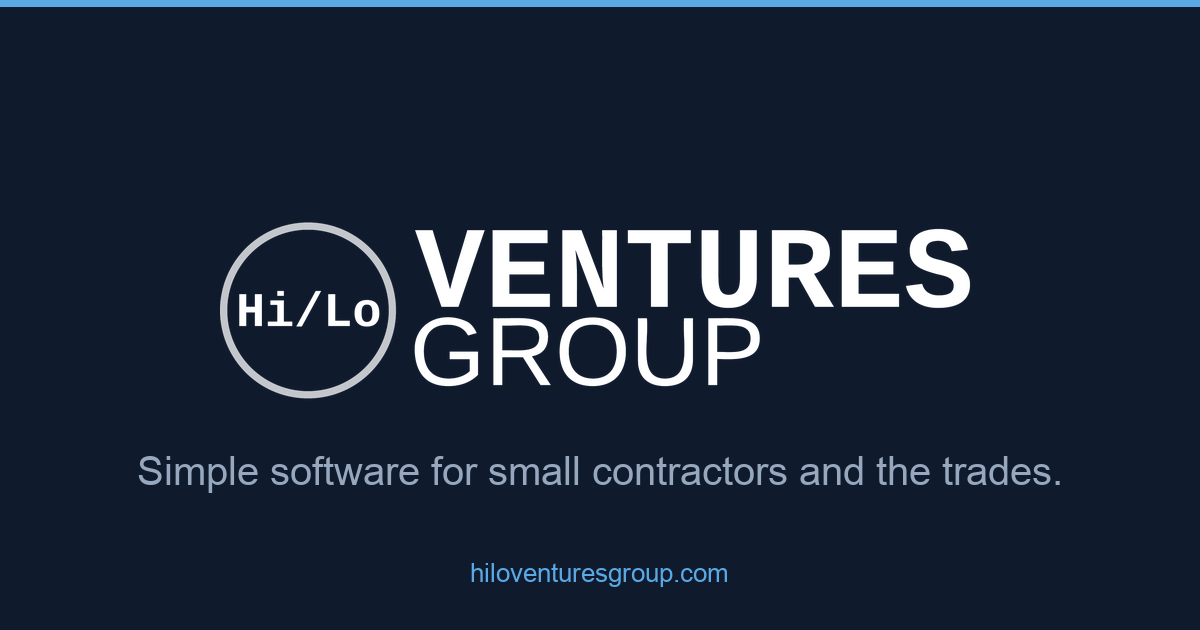
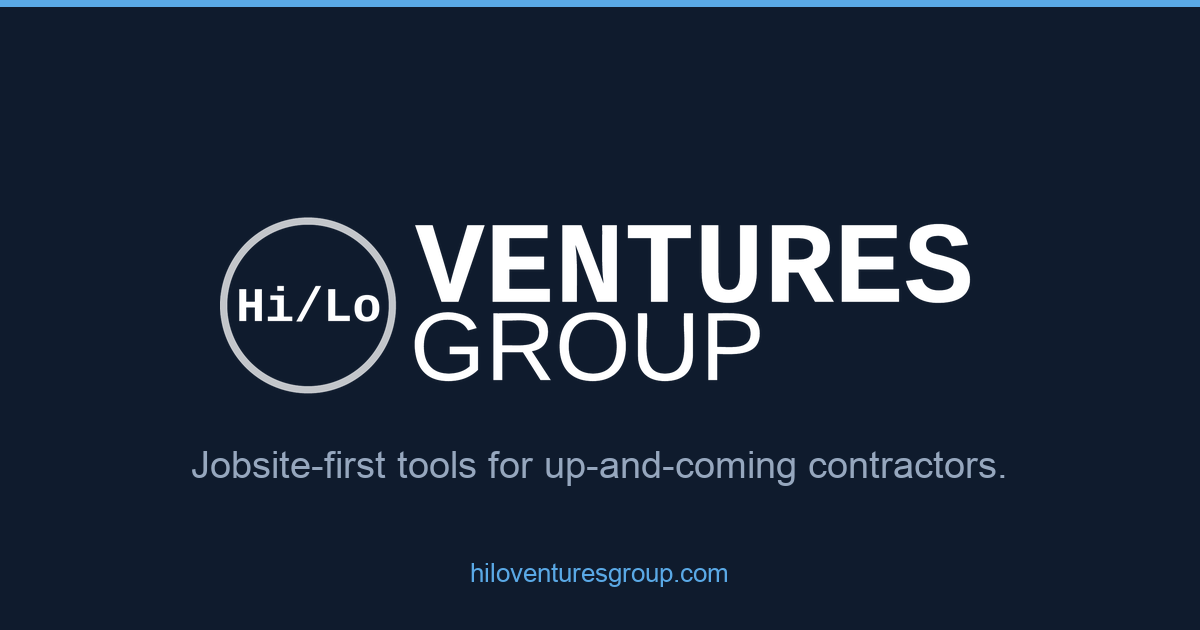
Align metadata to jobsite-first positioning
Homepage and About copy already carried the message; this syncs the
derived layers to match:
- Schema WebSite.description (all 7 pages), homepage + About meta descriptions
- Regenerate share card tagline: "Jobsite-first tools for up-and-coming contractors"
- Update llms.txt summary and body to the jobsite-first / communication-gap story

diff --git a/index.html b/index.html
@@ -15,7 +15,7 @@
 			let jqueryParams=[],jQuery=function(r){return jqueryParams=[...jqueryParams,r],jQuery},$=function(r){return jqueryParams=[...jqueryParams,r],$};window.jQuery=jQuery,window.$=jQuery;let customHeadScripts=!1;jQuery.fn=jQuery.prototype={},$.fn=jQuery.prototype={},jQuery.noConflict=function(r){if(window.jQuery)return jQuery=window.jQuery,$=window.jQuery,customHeadScripts=!0,jQuery.noConflict},jQuery.ready=function(r){jqueryParams=[...jqueryParams,r]},$.ready=function(r){jqueryParams=[...jqueryParams,r]},jQuery.load=function(r){jqueryParams=[...jqueryParams,r]},$.load=function(r){jqueryParams=[...jqueryParams,r]},jQuery.fn.ready=function(r){jqueryParams=[...jqueryParams,r]},$.fn.ready=function(r){jqueryParams=[...jqueryParams,r]};</script>
 	<!-- This site is optimized with the Yoast SEO plugin v24.6 - https://yoast.com/wordpress/plugins/seo/ -->
 	<title>Hi/Lo Ventures Group | Micro-SaaS Venture Studio for the Trades</title>
-	<meta name="description" content="Hi/Lo Ventures Group is a micro-SaaS venture studio that builds, launches, and invests in simple, AI-powered software for small contractors and the trades."/>
+	<meta name="description" content="Hi/Lo Ventures Group builds AI-powered, jobsite-first tools that help up-and-coming contractors communicate better, work smarter, and compete with established firms from day one."/>
 	<link rel="canonical" href="https://hiloventuresgroup.com/" />
 	<meta property="og:locale" content="en_US" />
 	<meta property="og:type" content="website" />
@@ -32,7 +32,7 @@
 	<meta name="twitter:image" content="https://hiloventuresgroup.com/wp-content/uploads/hilo-og-image.png" />
 	<meta name="twitter:image:alt" content="Hi/Lo Ventures Group" />
 	<meta name="twitter:site" content="@hiloventuresgroup" />
-	<script type="application/ld+json" class="yoast-schema-graph">{"@context":"https://schema.org","@graph":[{"@type":"WebPage","@id":"https://hiloventuresgroup.com/","url":"https://hiloventuresgroup.com/","name":"Hi/Lo Ventures Group | Building a community of trades people and the tools to support them","isPartOf":{"@id":"https://hiloventuresgroup.com/#website"},"about":{"@id":"https://hiloventuresgroup.com/#organization"},"datePublished":"2025-03-16T19:57:35+00:00","dateModified":"2025-03-16T18:09:42+00:00","description":"Hi/Lo Ventures Group is a Micro-SaaS Venture Studio that creates, launches, and invests in practical software solutions for tradespeople. We build simple, subscription-based tools designed to streamline operations, improve communication, and make everyday tasks easier in construction and home maintenance.","breadcrumb":{"@id":"https://hiloventuresgroup.com/#breadcrumb"},"inLanguage":"en-US","potentialAction":[{"@type":"ReadAction","target":["https://hiloventuresgroup.com/"]}]},{"@type":"BreadcrumbList","@id":"https://hiloventuresgroup.com/#breadcrumb","itemListElement":[{"@type":"ListItem","position":1,"name":"Home"}]},{"@type":"WebSite","@id":"https://hiloventuresgroup.com/#website","url":"https://hiloventuresgroup.com/","name":"Hi/Lo Ventures Group","description":"A micro-SaaS venture studio building simple software for the trades.","publisher":{"@id":"https://hiloventuresgroup.com/#organization"},"potentialAction":[{"@type":"SearchAction","target":{"@type":"EntryPoint","urlTemplate":"https://hiloventuresgroup.com/?s={search_term_string}"},"query-input":{"@type":"PropertyValueSpecification","valueRequired":true,"valueName":"search_term_string"}}],"inLanguage":"en-US"},{"@type":"Organization","@id":"https://hiloventuresgroup.com/#organization","name":"Hi/Lo Ventures Group","url":"https://hiloventuresgroup.com/","logo":{"@type":"ImageObject","inLanguage":"en-US","@id":"https://hiloventuresgroup.com/#/schema/logo/image/","url":"wp-content/uploads/2018/12/BH-Logo-Outline_BH-Logo-Black.png","contentUrl":"wp-content/uploads/2018/12/BH-Logo-Outline_BH-Logo-Black.png","width":1959,"height":508,"caption":"Hi/Lo Ventures Group"},"image":{"@id":"https://hiloventuresgroup.com/#/schema/logo/image/"},"sameAs":["https://x.com/hiloventuresgroup","https://www.linkedin.com/company/hilo-ventures-group/","https://www.youtube.com/channel/UCOMwDJOYuYc_9hol0VQDdgQ"]}]}</script>
+	<script type="application/ld+json" class="yoast-schema-graph">{"@context":"https://schema.org","@graph":[{"@type":"WebPage","@id":"https://hiloventuresgroup.com/","url":"https://hiloventuresgroup.com/","name":"Hi/Lo Ventures Group | Building a community of trades people and the tools to support them","isPartOf":{"@id":"https://hiloventuresgroup.com/#website"},"about":{"@id":"https://hiloventuresgroup.com/#organization"},"datePublished":"2025-03-16T19:57:35+00:00","dateModified":"2025-03-16T18:09:42+00:00","description":"Hi/Lo Ventures Group is a Micro-SaaS Venture Studio that creates, launches, and invests in practical software solutions for tradespeople. We build simple, subscription-based tools designed to streamline operations, improve communication, and make everyday tasks easier in construction and home maintenance.","breadcrumb":{"@id":"https://hiloventuresgroup.com/#breadcrumb"},"inLanguage":"en-US","potentialAction":[{"@type":"ReadAction","target":["https://hiloventuresgroup.com/"]}]},{"@type":"BreadcrumbList","@id":"https://hiloventuresgroup.com/#breadcrumb","itemListElement":[{"@type":"ListItem","position":1,"name":"Home"}]},{"@type":"WebSite","@id":"https://hiloventuresgroup.com/#website","url":"https://hiloventuresgroup.com/","name":"Hi/Lo Ventures Group","description":"A micro-SaaS venture studio building AI-powered, jobsite-first tools that help up-and-coming contractors compete with established firms.","publisher":{"@id":"https://hiloventuresgroup.com/#organization"},"potentialAction":[{"@type":"SearchAction","target":{"@type":"EntryPoint","urlTemplate":"https://hiloventuresgroup.com/?s={search_term_string}"},"query-input":{"@type":"PropertyValueSpecification","valueRequired":true,"valueName":"search_term_string"}}],"inLanguage":"en-US"},{"@type":"Organization","@id":"https://hiloventuresgroup.com/#organization","name":"Hi/Lo Ventures Group","url":"https://hiloventuresgroup.com/","logo":{"@type":"ImageObject","inLanguage":"en-US","@id":"https://hiloventuresgroup.com/#/schema/logo/image/","url":"wp-content/uploads/2018/12/BH-Logo-Outline_BH-Logo-Black.png","contentUrl":"wp-content/uploads/2018/12/BH-Logo-Outline_BH-Logo-Black.png","width":1959,"height":508,"caption":"Hi/Lo Ventures Group"},"image":{"@id":"https://hiloventuresgroup.com/#/schema/logo/image/"},"sameAs":["https://x.com/hiloventuresgroup","https://www.linkedin.com/company/hilo-ventures-group/","https://www.youtube.com/channel/UCOMwDJOYuYc_9hol0VQDdgQ"]}]}</script>
 	<!-- / Yoast SEO plugin. -->
 
 

diff --git a/about/index.html b/about/index.html
@@ -15,7 +15,7 @@
 			let jqueryParams=[],jQuery=function(r){return jqueryParams=[...jqueryParams,r],jQuery},$=function(r){return jqueryParams=[...jqueryParams,r],$};window.jQuery=jQuery,window.$=jQuery;let customHeadScripts=!1;jQuery.fn=jQuery.prototype={},$.fn=jQuery.prototype={},jQuery.noConflict=function(r){if(window.jQuery)return jQuery=window.jQuery,$=window.jQuery,customHeadScripts=!0,jQuery.noConflict},jQuery.ready=function(r){jqueryParams=[...jqueryParams,r]},$.ready=function(r){jqueryParams=[...jqueryParams,r]},jQuery.load=function(r){jqueryParams=[...jqueryParams,r]},$.load=function(r){jqueryParams=[...jqueryParams,r]},jQuery.fn.ready=function(r){jqueryParams=[...jqueryParams,r]},$.fn.ready=function(r){jqueryParams=[...jqueryParams,r]};</script>
 	<!-- This site is optimized with the Yoast SEO plugin v24.6 - https://yoast.com/wordpress/plugins/seo/ -->
 	<title>About Hi/Lo Ventures Group &#187; Hi/Lo Ventures Group</title>
-	<meta name="description" content="Hi/Lo Ventures Group is a micro-SaaS venture studio that builds, launches, and invests in simple software for small contractors and the trades."/>
+	<meta name="description" content="Hi/Lo Ventures Group is a mission-driven micro-SaaS venture studio building AI-powered, jobsite-first tools that help up-and-coming contractors compete with larger firms."/>
 	<link rel="canonical" href="https://hiloventuresgroup.com/about/" />
 	<meta property="og:locale" content="en_US" />
 	<meta property="og:type" content="article" />
@@ -34,7 +34,7 @@
 	<meta name="twitter:site" content="@hiloventuresgroup" />
 	<meta name="twitter:label1" content="Est. reading time" />
 	<meta name="twitter:data1" content="3 minutes" />
-	<script type="application/ld+json" class="yoast-schema-graph">{"@context":"https://schema.org","@graph":[{"@type":"WebPage","@id":"https://hiloventuresgroup.com/about/","url":"https://hiloventuresgroup.com/about/","name":"About Hi/Lo Ventures Group &#187; Hi/Lo Ventures Group","isPartOf":{"@id":"https://hiloventuresgroup.com/#website"},"datePublished":"2018-07-23T20:00:12+00:00","dateModified":"2024-03-06T01:30:55+00:00","description":"Hi/Lo Ventures Group is a micro-SaaS venture studio that builds, launches, and invests in simple software for small contractors and the trades.","breadcrumb":{"@id":"https://hiloventuresgroup.com/about/#breadcrumb"},"inLanguage":"en-US","potentialAction":[{"@type":"ReadAction","target":["https://hiloventuresgroup.com/about/"]}]},{"@type":"BreadcrumbList","@id":"https://hiloventuresgroup.com/about/#breadcrumb","itemListElement":[{"@type":"ListItem","position":1,"name":"Home","item":"https://hiloventuresgroup.com/"},{"@type":"ListItem","position":2,"name":"About Hi/Lo Ventures Group"}]},{"@type":"WebSite","@id":"https://hiloventuresgroup.com/#website","url":"https://hiloventuresgroup.com/","name":"Hi/Lo Ventures Group","description":"A micro-SaaS venture studio building simple software for the trades.","publisher":{"@id":"https://hiloventuresgroup.com/#organization"},"potentialAction":[{"@type":"SearchAction","target":{"@type":"EntryPoint","urlTemplate":"https://hiloventuresgroup.com/?s={search_term_string}"},"query-input":{"@type":"PropertyValueSpecification","valueRequired":true,"valueName":"search_term_string"}}],"inLanguage":"en-US"},{"@type":"Organization","@id":"https://hiloventuresgroup.com/#organization","name":"Hi/Lo Ventures Group","url":"https://hiloventuresgroup.com/","logo":{"@type":"ImageObject","inLanguage":"en-US","@id":"https://hiloventuresgroup.com/#/schema/logo/image/","url":"../wp-content/uploads/2018/12/BH-Logo-Outline_BH-Logo-Black.png","contentUrl":"../wp-content/uploads/2018/12/BH-Logo-Outline_BH-Logo-Black.png","width":1959,"height":508,"caption":"Hi/Lo Ventures Group"},"image":{"@id":"https://hiloventuresgroup.com/#/schema/logo/image/"},"sameAs":["https://x.com/hiloventuresgroup","https://www.linkedin.com/company/hilo-ventures-group/","https://www.youtube.com/channel/UCH9wQgFr5goz-lf9nsjE0pw"]}]}</script>
+	<script type="application/ld+json" class="yoast-schema-graph">{"@context":"https://schema.org","@graph":[{"@type":"WebPage","@id":"https://hiloventuresgroup.com/about/","url":"https://hiloventuresgroup.com/about/","name":"About Hi/Lo Ventures Group &#187; Hi/Lo Ventures Group","isPartOf":{"@id":"https://hiloventuresgroup.com/#website"},"datePublished":"2018-07-23T20:00:12+00:00","dateModified":"2024-03-06T01:30:55+00:00","description":"Hi/Lo Ventures Group is a micro-SaaS venture studio that builds, launches, and invests in simple software for small contractors and the trades.","breadcrumb":{"@id":"https://hiloventuresgroup.com/about/#breadcrumb"},"inLanguage":"en-US","potentialAction":[{"@type":"ReadAction","target":["https://hiloventuresgroup.com/about/"]}]},{"@type":"BreadcrumbList","@id":"https://hiloventuresgroup.com/about/#breadcrumb","itemListElement":[{"@type":"ListItem","position":1,"name":"Home","item":"https://hiloventuresgroup.com/"},{"@type":"ListItem","position":2,"name":"About Hi/Lo Ventures Group"}]},{"@type":"WebSite","@id":"https://hiloventuresgroup.com/#website","url":"https://hiloventuresgroup.com/","name":"Hi/Lo Ventures Group","description":"A micro-SaaS venture studio building AI-powered, jobsite-first tools that help up-and-coming contractors compete with established firms.","publisher":{"@id":"https://hiloventuresgroup.com/#organization"},"potentialAction":[{"@type":"SearchAction","target":{"@type":"EntryPoint","urlTemplate":"https://hiloventuresgroup.com/?s={search_term_string}"},"query-input":{"@type":"PropertyValueSpecification","valueRequired":true,"valueName":"search_term_string"}}],"inLanguage":"en-US"},{"@type":"Organization","@id":"https://hiloventuresgroup.com/#organization","name":"Hi/Lo Ventures Group","url":"https://hiloventuresgroup.com/","logo":{"@type":"ImageObject","inLanguage":"en-US","@id":"https://hiloventuresgroup.com/#/schema/logo/image/","url":"../wp-content/uploads/2018/12/BH-Logo-Outline_BH-Logo-Black.png","contentUrl":"../wp-content/uploads/2018/12/BH-Logo-Outline_BH-Logo-Black.png","width":1959,"height":508,"caption":"Hi/Lo Ventures Group"},"image":{"@id":"https://hiloventuresgroup.com/#/schema/logo/image/"},"sameAs":["https://x.com/hiloventuresgroup","https://www.linkedin.com/company/hilo-ventures-group/","https://www.youtube.com/channel/UCH9wQgFr5goz-lf9nsjE0pw"]}]}</script>
 	<!-- / Yoast SEO plugin. -->
 
 

diff --git a/portfolio/index.html b/portfolio/index.html
@@ -33,7 +33,7 @@
 	<meta name="twitter:site" content="@hiloventuresgroup" />
 	<meta name="twitter:label1" content="Est. reading time" />
 	<meta name="twitter:data1" content="7 minutes" />
-	<script type="application/ld+json" class="yoast-schema-graph">{"@context":"https://schema.org","@graph":[{"@type":"WebPage","@id":"https://hiloventuresgroup.com/portfolio/","url":"https://hiloventuresgroup.com/portfolio/","name":"Portfolio &#187; Hi/Lo Ventures Group","isPartOf":{"@id":"https://hiloventuresgroup.com/#website"},"primaryImageOfPage":{"@id":"https://hiloventuresgroup.com/portfolio/#primaryimage"},"image":{"@id":"https://hiloventuresgroup.com/portfolio/#primaryimage"},"thumbnailUrl":"https://hiloventuresgroup.com/wp-content/uploads/hilo-og-image.png","datePublished":"2024-06-18T18:18:03+00:00","dateModified":"2024-06-26T13:21:34+00:00","breadcrumb":{"@id":"https://hiloventuresgroup.com/portfolio/#breadcrumb"},"inLanguage":"en-US","potentialAction":[{"@type":"ReadAction","target":["https://hiloventuresgroup.com/portfolio/"]}]},{"@type":"ImageObject","inLanguage":"en-US","@id":"https://hiloventuresgroup.com/portfolio/#primaryimage","url":"https://hiloventuresgroup.com/wp-content/uploads/hilo-og-image.png","contentUrl":"https://hiloventuresgroup.com/wp-content/uploads/hilo-og-image.png","width":807,"height":538},{"@type":"BreadcrumbList","@id":"https://hiloventuresgroup.com/portfolio/#breadcrumb","itemListElement":[{"@type":"ListItem","position":1,"name":"Home","item":"https://hiloventuresgroup.com/"},{"@type":"ListItem","position":2,"name":"Portfolio"}]},{"@type":"WebSite","@id":"https://hiloventuresgroup.com/#website","url":"https://hiloventuresgroup.com/","name":"Hi/Lo Ventures Group","description":"A micro-SaaS venture studio building simple software for the trades.","publisher":{"@id":"https://hiloventuresgroup.com/#organization"},"potentialAction":[{"@type":"SearchAction","target":{"@type":"EntryPoint","urlTemplate":"https://hiloventuresgroup.com/?s={search_term_string}"},"query-input":{"@type":"PropertyValueSpecification","valueRequired":true,"valueName":"search_term_string"}}],"inLanguage":"en-US"},{"@type":"Organization","@id":"https://hiloventuresgroup.com/#organization","name":"Hi/Lo Ventures Group","url":"https://hiloventuresgroup.com/","logo":{"@type":"ImageObject","inLanguage":"en-US","@id":"https://hiloventuresgroup.com/#/schema/logo/image/","url":"../wp-content/uploads/2018/12/BH-Logo-Outline_BH-Logo-Black.png","contentUrl":"../wp-content/uploads/2018/12/BH-Logo-Outline_BH-Logo-Black.png","width":1959,"height":508,"caption":"Hi/Lo Ventures Group"},"image":{"@id":"https://hiloventuresgroup.com/#/schema/logo/image/"},"sameAs":["https://x.com/hiloventuresgroup","https://www.linkedin.com/company/hilo-ventures-group/","https://www.youtube.com/channel/UCH9wQgFr5goz-lf9nsjE0pw"]}]}</script>
+	<script type="application/ld+json" class="yoast-schema-graph">{"@context":"https://schema.org","@graph":[{"@type":"WebPage","@id":"https://hiloventuresgroup.com/portfolio/","url":"https://hiloventuresgroup.com/portfolio/","name":"Portfolio &#187; Hi/Lo Ventures Group","isPartOf":{"@id":"https://hiloventuresgroup.com/#website"},"primaryImageOfPage":{"@id":"https://hiloventuresgroup.com/portfolio/#primaryimage"},"image":{"@id":"https://hiloventuresgroup.com/portfolio/#primaryimage"},"thumbnailUrl":"https://hiloventuresgroup.com/wp-content/uploads/hilo-og-image.png","datePublished":"2024-06-18T18:18:03+00:00","dateModified":"2024-06-26T13:21:34+00:00","breadcrumb":{"@id":"https://hiloventuresgroup.com/portfolio/#breadcrumb"},"inLanguage":"en-US","potentialAction":[{"@type":"ReadAction","target":["https://hiloventuresgroup.com/portfolio/"]}]},{"@type":"ImageObject","inLanguage":"en-US","@id":"https://hiloventuresgroup.com/portfolio/#primaryimage","url":"https://hiloventuresgroup.com/wp-content/uploads/hilo-og-image.png","contentUrl":"https://hiloventuresgroup.com/wp-content/uploads/hilo-og-image.png","width":807,"height":538},{"@type":"BreadcrumbList","@id":"https://hiloventuresgroup.com/portfolio/#breadcrumb","itemListElement":[{"@type":"ListItem","position":1,"name":"Home","item":"https://hiloventuresgroup.com/"},{"@type":"ListItem","position":2,"name":"Portfolio"}]},{"@type":"WebSite","@id":"https://hiloventuresgroup.com/#website","url":"https://hiloventuresgroup.com/","name":"Hi/Lo Ventures Group","description":"A micro-SaaS venture studio building AI-powered, jobsite-first tools that help up-and-coming contractors compete with established firms.","publisher":{"@id":"https://hiloventuresgroup.com/#organization"},"potentialAction":[{"@type":"SearchAction","target":{"@type":"EntryPoint","urlTemplate":"https://hiloventuresgroup.com/?s={search_term_string}"},"query-input":{"@type":"PropertyValueSpecification","valueRequired":true,"valueName":"search_term_string"}}],"inLanguage":"en-US"},{"@type":"Organization","@id":"https://hiloventuresgroup.com/#organization","name":"Hi/Lo Ventures Group","url":"https://hiloventuresgroup.com/","logo":{"@type":"ImageObject","inLanguage":"en-US","@id":"https://hiloventuresgroup.com/#/schema/logo/image/","url":"../wp-content/uploads/2018/12/BH-Logo-Outline_BH-Logo-Black.png","contentUrl":"../wp-content/uploads/2018/12/BH-Logo-Outline_BH-Logo-Black.png","width":1959,"height":508,"caption":"Hi/Lo Ventures Group"},"image":{"@id":"https://hiloventuresgroup.com/#/schema/logo/image/"},"sameAs":["https://x.com/hiloventuresgroup","https://www.linkedin.com/company/hilo-ventures-group/","https://www.youtube.com/channel/UCH9wQgFr5goz-lf9nsjE0pw"]}]}</script>
 	<!-- / Yoast SEO plugin. -->
 
 

diff --git a/gdpr-compliance-policy/index.html b/gdpr-compliance-policy/index.html
@@ -33,7 +33,7 @@
 	<meta name="twitter:site" content="@hiloventuresgroup" />
 	<meta name="twitter:label1" content="Est. reading time" />
 	<meta name="twitter:data1" content="8 minutes" />
-	<script type="application/ld+json" class="yoast-schema-graph">{"@context":"https://schema.org","@graph":[{"@type":"WebPage","@id":"https://hiloventuresgroup.com/gdpr-compliance-policy/","url":"https://hiloventuresgroup.com/gdpr-compliance-policy/","name":"GDPR Compliance Policy &#187; Hi/Lo Ventures Group","isPartOf":{"@id":"https://hiloventuresgroup.com/#website"},"datePublished":"2019-09-24T00:18:48+00:00","dateModified":"2019-09-24T00:24:23+00:00","breadcrumb":{"@id":"https://hiloventuresgroup.com/gdpr-compliance-policy/#breadcrumb"},"inLanguage":"en-US","potentialAction":[{"@type":"ReadAction","target":["https://hiloventuresgroup.com/gdpr-compliance-policy/"]}]},{"@type":"BreadcrumbList","@id":"https://hiloventuresgroup.com/gdpr-compliance-policy/#breadcrumb","itemListElement":[{"@type":"ListItem","position":1,"name":"Home","item":"https://hiloventuresgroup.com/"},{"@type":"ListItem","position":2,"name":"GDPR Compliance Policy"}]},{"@type":"WebSite","@id":"https://hiloventuresgroup.com/#website","url":"https://hiloventuresgroup.com/","name":"Hi/Lo Ventures Group","description":"A micro-SaaS venture studio building simple software for the trades.","publisher":{"@id":"https://hiloventuresgroup.com/#organization"},"potentialAction":[{"@type":"SearchAction","target":{"@type":"EntryPoint","urlTemplate":"https://hiloventuresgroup.com/?s={search_term_string}"},"query-input":{"@type":"PropertyValueSpecification","valueRequired":true,"valueName":"search_term_string"}}],"inLanguage":"en-US"},{"@type":"Organization","@id":"https://hiloventuresgroup.com/#organization","name":"Hi/Lo Ventures Group","url":"https://hiloventuresgroup.com/","logo":{"@type":"ImageObject","inLanguage":"en-US","@id":"https://hiloventuresgroup.com/#/schema/logo/image/","url":"https://hiloventuresgroup.com/wp-content/uploads/2018/12/BH-Logo-Outline_BH-Logo-Black.png","contentUrl":"https://hiloventuresgroup.com/wp-content/uploads/2018/12/BH-Logo-Outline_BH-Logo-Black.png","width":1959,"height":508,"caption":"Hi/Lo Ventures Group"},"image":{"@id":"https://hiloventuresgroup.com/#/schema/logo/image/"},"sameAs":["https://x.com/hiloventuresgroup","https://www.linkedin.com/company/hilo-ventures-group/","https://www.youtube.com/channel/UCH9wQgFr5goz-lf9nsjE0pw"]}]}</script>
+	<script type="application/ld+json" class="yoast-schema-graph">{"@context":"https://schema.org","@graph":[{"@type":"WebPage","@id":"https://hiloventuresgroup.com/gdpr-compliance-policy/","url":"https://hiloventuresgroup.com/gdpr-compliance-policy/","name":"GDPR Compliance Policy &#187; Hi/Lo Ventures Group","isPartOf":{"@id":"https://hiloventuresgroup.com/#website"},"datePublished":"2019-09-24T00:18:48+00:00","dateModified":"2019-09-24T00:24:23+00:00","breadcrumb":{"@id":"https://hiloventuresgroup.com/gdpr-compliance-policy/#breadcrumb"},"inLanguage":"en-US","potentialAction":[{"@type":"ReadAction","target":["https://hiloventuresgroup.com/gdpr-compliance-policy/"]}]},{"@type":"BreadcrumbList","@id":"https://hiloventuresgroup.com/gdpr-compliance-policy/#breadcrumb","itemListElement":[{"@type":"ListItem","position":1,"name":"Home","item":"https://hiloventuresgroup.com/"},{"@type":"ListItem","position":2,"name":"GDPR Compliance Policy"}]},{"@type":"WebSite","@id":"https://hiloventuresgroup.com/#website","url":"https://hiloventuresgroup.com/","name":"Hi/Lo Ventures Group","description":"A micro-SaaS venture studio building AI-powered, jobsite-first tools that help up-and-coming contractors compete with established firms.","publisher":{"@id":"https://hiloventuresgroup.com/#organization"},"potentialAction":[{"@type":"SearchAction","target":{"@type":"EntryPoint","urlTemplate":"https://hiloventuresgroup.com/?s={search_term_string}"},"query-input":{"@type":"PropertyValueSpecification","valueRequired":true,"valueName":"search_term_string"}}],"inLanguage":"en-US"},{"@type":"Organization","@id":"https://hiloventuresgroup.com/#organization","name":"Hi/Lo Ventures Group","url":"https://hiloventuresgroup.com/","logo":{"@type":"ImageObject","inLanguage":"en-US","@id":"https://hiloventuresgroup.com/#/schema/logo/image/","url":"https://hiloventuresgroup.com/wp-content/uploads/2018/12/BH-Logo-Outline_BH-Logo-Black.png","contentUrl":"https://hiloventuresgroup.com/wp-content/uploads/2018/12/BH-Logo-Outline_BH-Logo-Black.png","width":1959,"height":508,"caption":"Hi/Lo Ventures Group"},"image":{"@id":"https://hiloventuresgroup.com/#/schema/logo/image/"},"sameAs":["https://x.com/hiloventuresgroup","https://www.linkedin.com/company/hilo-ventures-group/","https://www.youtube.com/channel/UCH9wQgFr5goz-lf9nsjE0pw"]}]}</script>
 	<!-- / Yoast SEO plugin. -->
 
 

diff --git a/privacy-policy/index.html b/privacy-policy/index.html
@@ -34,7 +34,7 @@
 	<meta name="twitter:site" content="@hiloventuresgroup" />
 	<meta name="twitter:label1" content="Est. reading time" />
 	<meta name="twitter:data1" content="4 minutes" />
-	<script type="application/ld+json" class="yoast-schema-graph">{"@context":"https://schema.org","@graph":[{"@type":"WebPage","@id":"https://hiloventuresgroup.com/privacy-policy/","url":"https://hiloventuresgroup.com/privacy-policy/","name":"Privacy Policy &#187; Hi/Lo Ventures Group","isPartOf":{"@id":"https://hiloventuresgroup.com/#website"},"datePublished":"2018-07-23T16:36:45+00:00","dateModified":"2018-07-23T16:57:23+00:00","breadcrumb":{"@id":"https://hiloventuresgroup.com/privacy-policy/#breadcrumb"},"inLanguage":"en-US","potentialAction":[{"@type":"ReadAction","target":["https://hiloventuresgroup.com/privacy-policy/"]}]},{"@type":"BreadcrumbList","@id":"https://hiloventuresgroup.com/privacy-policy/#breadcrumb","itemListElement":[{"@type":"ListItem","position":1,"name":"Home","item":"https://hiloventuresgroup.com/"},{"@type":"ListItem","position":2,"name":"Privacy Policy"}]},{"@type":"WebSite","@id":"https://hiloventuresgroup.com/#website","url":"https://hiloventuresgroup.com/","name":"Hi/Lo Ventures Group","description":"A micro-SaaS venture studio building simple software for the trades.","publisher":{"@id":"https://hiloventuresgroup.com/#organization"},"potentialAction":[{"@type":"SearchAction","target":{"@type":"EntryPoint","urlTemplate":"https://hiloventuresgroup.com/?s={search_term_string}"},"query-input":{"@type":"PropertyValueSpecification","valueRequired":true,"valueName":"search_term_string"}}],"inLanguage":"en-US"},{"@type":"Organization","@id":"https://hiloventuresgroup.com/#organization","name":"Hi/Lo Ventures Group","url":"https://hiloventuresgroup.com/","logo":{"@type":"ImageObject","inLanguage":"en-US","@id":"https://hiloventuresgroup.com/#/schema/logo/image/","url":"https://hiloventuresgroup.com/wp-content/uploads/2018/12/BH-Logo-Outline_BH-Logo-Black.png","contentUrl":"https://hiloventuresgroup.com/wp-content/uploads/2018/12/BH-Logo-Outline_BH-Logo-Black.png","width":1959,"height":508,"caption":"Hi/Lo Ventures Group"},"image":{"@id":"https://hiloventuresgroup.com/#/schema/logo/image/"},"sameAs":["https://x.com/hiloventuresgroup","https://www.linkedin.com/company/hilo-ventures-group/","https://www.youtube.com/channel/UCH9wQgFr5goz-lf9nsjE0pw"]}]}</script>
+	<script type="application/ld+json" class="yoast-schema-graph">{"@context":"https://schema.org","@graph":[{"@type":"WebPage","@id":"https://hiloventuresgroup.com/privacy-policy/","url":"https://hiloventuresgroup.com/privacy-policy/","name":"Privacy Policy &#187; Hi/Lo Ventures Group","isPartOf":{"@id":"https://hiloventuresgroup.com/#website"},"datePublished":"2018-07-23T16:36:45+00:00","dateModified":"2018-07-23T16:57:23+00:00","breadcrumb":{"@id":"https://hiloventuresgroup.com/privacy-policy/#breadcrumb"},"inLanguage":"en-US","potentialAction":[{"@type":"ReadAction","target":["https://hiloventuresgroup.com/privacy-policy/"]}]},{"@type":"BreadcrumbList","@id":"https://hiloventuresgroup.com/privacy-policy/#breadcrumb","itemListElement":[{"@type":"ListItem","position":1,"name":"Home","item":"https://hiloventuresgroup.com/"},{"@type":"ListItem","position":2,"name":"Privacy Policy"}]},{"@type":"WebSite","@id":"https://hiloventuresgroup.com/#website","url":"https://hiloventuresgroup.com/","name":"Hi/Lo Ventures Group","description":"A micro-SaaS venture studio building AI-powered, jobsite-first tools that help up-and-coming contractors compete with established firms.","publisher":{"@id":"https://hiloventuresgroup.com/#organization"},"potentialAction":[{"@type":"SearchAction","target":{"@type":"EntryPoint","urlTemplate":"https://hiloventuresgroup.com/?s={search_term_string}"},"query-input":{"@type":"PropertyValueSpecification","valueRequired":true,"valueName":"search_term_string"}}],"inLanguage":"en-US"},{"@type":"Organization","@id":"https://hiloventuresgroup.com/#organization","name":"Hi/Lo Ventures Group","url":"https://hiloventuresgroup.com/","logo":{"@type":"ImageObject","inLanguage":"en-US","@id":"https://hiloventuresgroup.com/#/schema/logo/image/","url":"https://hiloventuresgroup.com/wp-content/uploads/2018/12/BH-Logo-Outline_BH-Logo-Black.png","contentUrl":"https://hiloventuresgroup.com/wp-content/uploads/2018/12/BH-Logo-Outline_BH-Logo-Black.png","width":1959,"height":508,"caption":"Hi/Lo Ventures Group"},"image":{"@id":"https://hiloventuresgroup.com/#/schema/logo/image/"},"sameAs":["https://x.com/hiloventuresgroup","https://www.linkedin.com/company/hilo-ventures-group/","https://www.youtube.com/channel/UCH9wQgFr5goz-lf9nsjE0pw"]}]}</script>
 	<!-- / Yoast SEO plugin. -->
 
 

diff --git a/contact-us/index.html b/contact-us/index.html
@@ -33,7 +33,7 @@
 	<meta name="twitter:site" content="@hiloventuresgroup" />
 	<meta name="twitter:label1" content="Est. reading time" />
 	<meta name="twitter:data1" content="2 minutes" />
-	<script type="application/ld+json" class="yoast-schema-graph">{"@context":"https://schema.org","@graph":[{"@type":"WebPage","@id":"https://hiloventuresgroup.com/contact-us/","url":"https://hiloventuresgroup.com/contact-us/","name":"Contact Us &#187; Hi/Lo Ventures Group","isPartOf":{"@id":"https://hiloventuresgroup.com/#website"},"datePublished":"2019-09-30T18:21:57+00:00","dateModified":"2025-01-16T21:04:41+00:00","breadcrumb":{"@id":"https://hiloventuresgroup.com/contact-us/#breadcrumb"},"inLanguage":"en-US","potentialAction":[{"@type":"ReadAction","target":["https://hiloventuresgroup.com/contact-us/"]}]},{"@type":"BreadcrumbList","@id":"https://hiloventuresgroup.com/contact-us/#breadcrumb","itemListElement":[{"@type":"ListItem","position":1,"name":"Home","item":"https://hiloventuresgroup.com/"},{"@type":"ListItem","position":2,"name":"Contact Us"}]},{"@type":"WebSite","@id":"https://hiloventuresgroup.com/#website","url":"https://hiloventuresgroup.com/","name":"Hi/Lo Ventures Group","description":"A micro-SaaS venture studio building simple software for the trades.","publisher":{"@id":"https://hiloventuresgroup.com/#organization"},"potentialAction":[{"@type":"SearchAction","target":{"@type":"EntryPoint","urlTemplate":"https://hiloventuresgroup.com/?s={search_term_string}"},"query-input":{"@type":"PropertyValueSpecification","valueRequired":true,"valueName":"search_term_string"}}],"inLanguage":"en-US"},{"@type":"Organization","@id":"https://hiloventuresgroup.com/#organization","name":"Hi/Lo Ventures Group","url":"https://hiloventuresgroup.com/","logo":{"@type":"ImageObject","inLanguage":"en-US","@id":"https://hiloventuresgroup.com/#/schema/logo/image/","url":"https://hiloventuresgroup.com/wp-content/uploads/2018/12/BH-Logo-Outline_BH-Logo-Black.png","contentUrl":"https://hiloventuresgroup.com/wp-content/uploads/2018/12/BH-Logo-Outline_BH-Logo-Black.png","width":1959,"height":508,"caption":"Hi/Lo Ventures Group"},"image":{"@id":"https://hiloventuresgroup.com/#/schema/logo/image/"},"sameAs":["https://x.com/hiloventuresgroup","https://www.linkedin.com/company/hilo-ventures-group/","https://www.youtube.com/channel/UCH9wQgFr5goz-lf9nsjE0pw"]}]}</script>
+	<script type="application/ld+json" class="yoast-schema-graph">{"@context":"https://schema.org","@graph":[{"@type":"WebPage","@id":"https://hiloventuresgroup.com/contact-us/","url":"https://hiloventuresgroup.com/contact-us/","name":"Contact Us &#187; Hi/Lo Ventures Group","isPartOf":{"@id":"https://hiloventuresgroup.com/#website"},"datePublished":"2019-09-30T18:21:57+00:00","dateModified":"2025-01-16T21:04:41+00:00","breadcrumb":{"@id":"https://hiloventuresgroup.com/contact-us/#breadcrumb"},"inLanguage":"en-US","potentialAction":[{"@type":"ReadAction","target":["https://hiloventuresgroup.com/contact-us/"]}]},{"@type":"BreadcrumbList","@id":"https://hiloventuresgroup.com/contact-us/#breadcrumb","itemListElement":[{"@type":"ListItem","position":1,"name":"Home","item":"https://hiloventuresgroup.com/"},{"@type":"ListItem","position":2,"name":"Contact Us"}]},{"@type":"WebSite","@id":"https://hiloventuresgroup.com/#website","url":"https://hiloventuresgroup.com/","name":"Hi/Lo Ventures Group","description":"A micro-SaaS venture studio building AI-powered, jobsite-first tools that help up-and-coming contractors compete with established firms.","publisher":{"@id":"https://hiloventuresgroup.com/#organization"},"potentialAction":[{"@type":"SearchAction","target":{"@type":"EntryPoint","urlTemplate":"https://hiloventuresgroup.com/?s={search_term_string}"},"query-input":{"@type":"PropertyValueSpecification","valueRequired":true,"valueName":"search_term_string"}}],"inLanguage":"en-US"},{"@type":"Organization","@id":"https://hiloventuresgroup.com/#organization","name":"Hi/Lo Ventures Group","url":"https://hiloventuresgroup.com/","logo":{"@type":"ImageObject","inLanguage":"en-US","@id":"https://hiloventuresgroup.com/#/schema/logo/image/","url":"https://hiloventuresgroup.com/wp-content/uploads/2018/12/BH-Logo-Outline_BH-Logo-Black.png","contentUrl":"https://hiloventuresgroup.com/wp-content/uploads/2018/12/BH-Logo-Outline_BH-Logo-Black.png","width":1959,"height":508,"caption":"Hi/Lo Ventures Group"},"image":{"@id":"https://hiloventuresgroup.com/#/schema/logo/image/"},"sameAs":["https://x.com/hiloventuresgroup","https://www.linkedin.com/company/hilo-ventures-group/","https://www.youtube.com/channel/UCH9wQgFr5goz-lf9nsjE0pw"]}]}</script>
 	<!-- / Yoast SEO plugin. -->
 
 

diff --git a/team/index.html b/team/index.html
@@ -33,7 +33,7 @@
 	<meta name="twitter:site" content="@hiloventuresgroup" />
 	<meta name="twitter:label1" content="Est. reading time" />
 	<meta name="twitter:data1" content="8 minutes" />
-	<script type="application/ld+json" class="yoast-schema-graph">{"@context":"https://schema.org","@graph":[{"@type":"WebPage","@id":"https://hiloventuresgroup.com/team/","url":"https://hiloventuresgroup.com/team/","name":"Team &#187; Hi/Lo Ventures Group","isPartOf":{"@id":"https://hiloventuresgroup.com/#website"},"datePublished":"2018-07-23T21:03:21+00:00","dateModified":"2024-03-06T15:11:40+00:00","breadcrumb":{"@id":"https://hiloventuresgroup.com/team/#breadcrumb"},"inLanguage":"en-US","potentialAction":[{"@type":"ReadAction","target":["https://hiloventuresgroup.com/team/"]}]},{"@type":"BreadcrumbList","@id":"https://hiloventuresgroup.com/team/#breadcrumb","itemListElement":[{"@type":"ListItem","position":1,"name":"Home","item":"https://hiloventuresgroup.com/"},{"@type":"ListItem","position":2,"name":"Team"}]},{"@type":"WebSite","@id":"https://hiloventuresgroup.com/#website","url":"https://hiloventuresgroup.com/","name":"Hi/Lo Ventures Group","description":"A micro-SaaS venture studio building simple software for the trades.","publisher":{"@id":"https://hiloventuresgroup.com/#organization"},"potentialAction":[{"@type":"SearchAction","target":{"@type":"EntryPoint","urlTemplate":"https://hiloventuresgroup.com/?s={search_term_string}"},"query-input":{"@type":"PropertyValueSpecification","valueRequired":true,"valueName":"search_term_string"}}],"inLanguage":"en-US"},{"@type":"Organization","@id":"https://hiloventuresgroup.com/#organization","name":"Hi/Lo Ventures Group","url":"https://hiloventuresgroup.com/","logo":{"@type":"ImageObject","inLanguage":"en-US","@id":"https://hiloventuresgroup.com/#/schema/logo/image/","url":"../wp-content/uploads/2018/12/BH-Logo-Outline_BH-Logo-Black.png","contentUrl":"../wp-content/uploads/2018/12/BH-Logo-Outline_BH-Logo-Black.png","width":1959,"height":508,"caption":"Hi/Lo Ventures Group"},"image":{"@id":"https://hiloventuresgroup.com/#/schema/logo/image/"},"sameAs":["https://x.com/hiloventuresgroup","https://www.linkedin.com/company/hilo-ventures-group/","https://www.youtube.com/channel/UCH9wQgFr5goz-lf9nsjE0pw"]}]}</script>
+	<script type="application/ld+json" class="yoast-schema-graph">{"@context":"https://schema.org","@graph":[{"@type":"WebPage","@id":"https://hiloventuresgroup.com/team/","url":"https://hiloventuresgroup.com/team/","name":"Team &#187; Hi/Lo Ventures Group","isPartOf":{"@id":"https://hiloventuresgroup.com/#website"},"datePublished":"2018-07-23T21:03:21+00:00","dateModified":"2024-03-06T15:11:40+00:00","breadcrumb":{"@id":"https://hiloventuresgroup.com/team/#breadcrumb"},"inLanguage":"en-US","potentialAction":[{"@type":"ReadAction","target":["https://hiloventuresgroup.com/team/"]}]},{"@type":"BreadcrumbList","@id":"https://hiloventuresgroup.com/team/#breadcrumb","itemListElement":[{"@type":"ListItem","position":1,"name":"Home","item":"https://hiloventuresgroup.com/"},{"@type":"ListItem","position":2,"name":"Team"}]},{"@type":"WebSite","@id":"https://hiloventuresgroup.com/#website","url":"https://hiloventuresgroup.com/","name":"Hi/Lo Ventures Group","description":"A micro-SaaS venture studio building AI-powered, jobsite-first tools that help up-and-coming contractors compete with established firms.","publisher":{"@id":"https://hiloventuresgroup.com/#organization"},"potentialAction":[{"@type":"SearchAction","target":{"@type":"EntryPoint","urlTemplate":"https://hiloventuresgroup.com/?s={search_term_string}"},"query-input":{"@type":"PropertyValueSpecification","valueRequired":true,"valueName":"search_term_string"}}],"inLanguage":"en-US"},{"@type":"Organization","@id":"https://hiloventuresgroup.com/#organization","name":"Hi/Lo Ventures Group","url":"https://hiloventuresgroup.com/","logo":{"@type":"ImageObject","inLanguage":"en-US","@id":"https://hiloventuresgroup.com/#/schema/logo/image/","url":"../wp-content/uploads/2018/12/BH-Logo-Outline_BH-Logo-Black.png","contentUrl":"../wp-content/uploads/2018/12/BH-Logo-Outline_BH-Logo-Black.png","width":1959,"height":508,"caption":"Hi/Lo Ventures Group"},"image":{"@id":"https://hiloventuresgroup.com/#/schema/logo/image/"},"sameAs":["https://x.com/hiloventuresgroup","https://www.linkedin.com/company/hilo-ventures-group/","https://www.youtube.com/channel/UCH9wQgFr5goz-lf9nsjE0pw"]}]}</script>
 	<!-- / Yoast SEO plugin. -->
 
 
